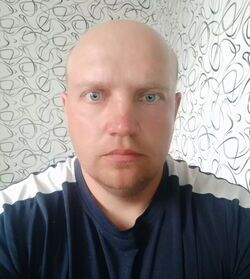
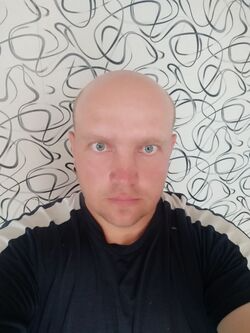
fix: photos replaced and fonts corrected

diff --git a/style.css b/style.css
@@ -115,11 +115,12 @@ body{
   border-radius: 8px; 
 }
 .name-title{
+  font-family: 'Roboto-Bold', sans-serif;
   font-size: 32px;
   padding-top: 22px;
 }
 .title{
-  font-size: 24px;
+  font-size: 28px;
   padding: 5px 0 15px 0;
 }
 .info-text{

diff --git a/index.html b/index.html
@@ -68,7 +68,7 @@
             developer, where I can apply my skills and experience in creating high-quality user interfaces
           </p>
         </div>
-      </section>      
+      </section>       
     </main>
   </div>
 </body>
